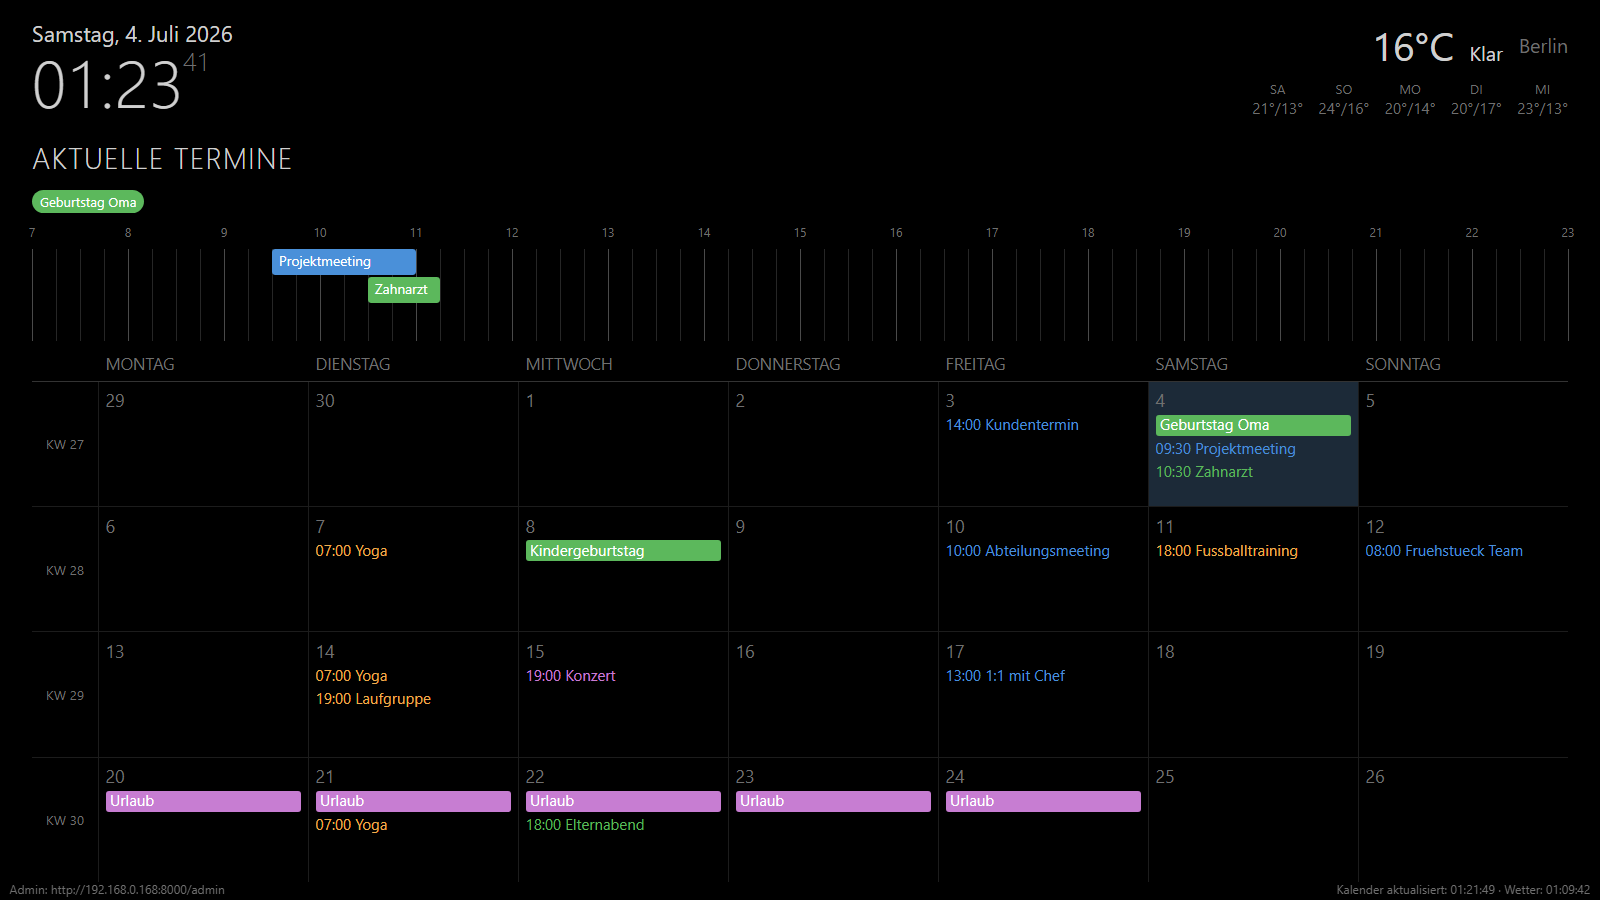
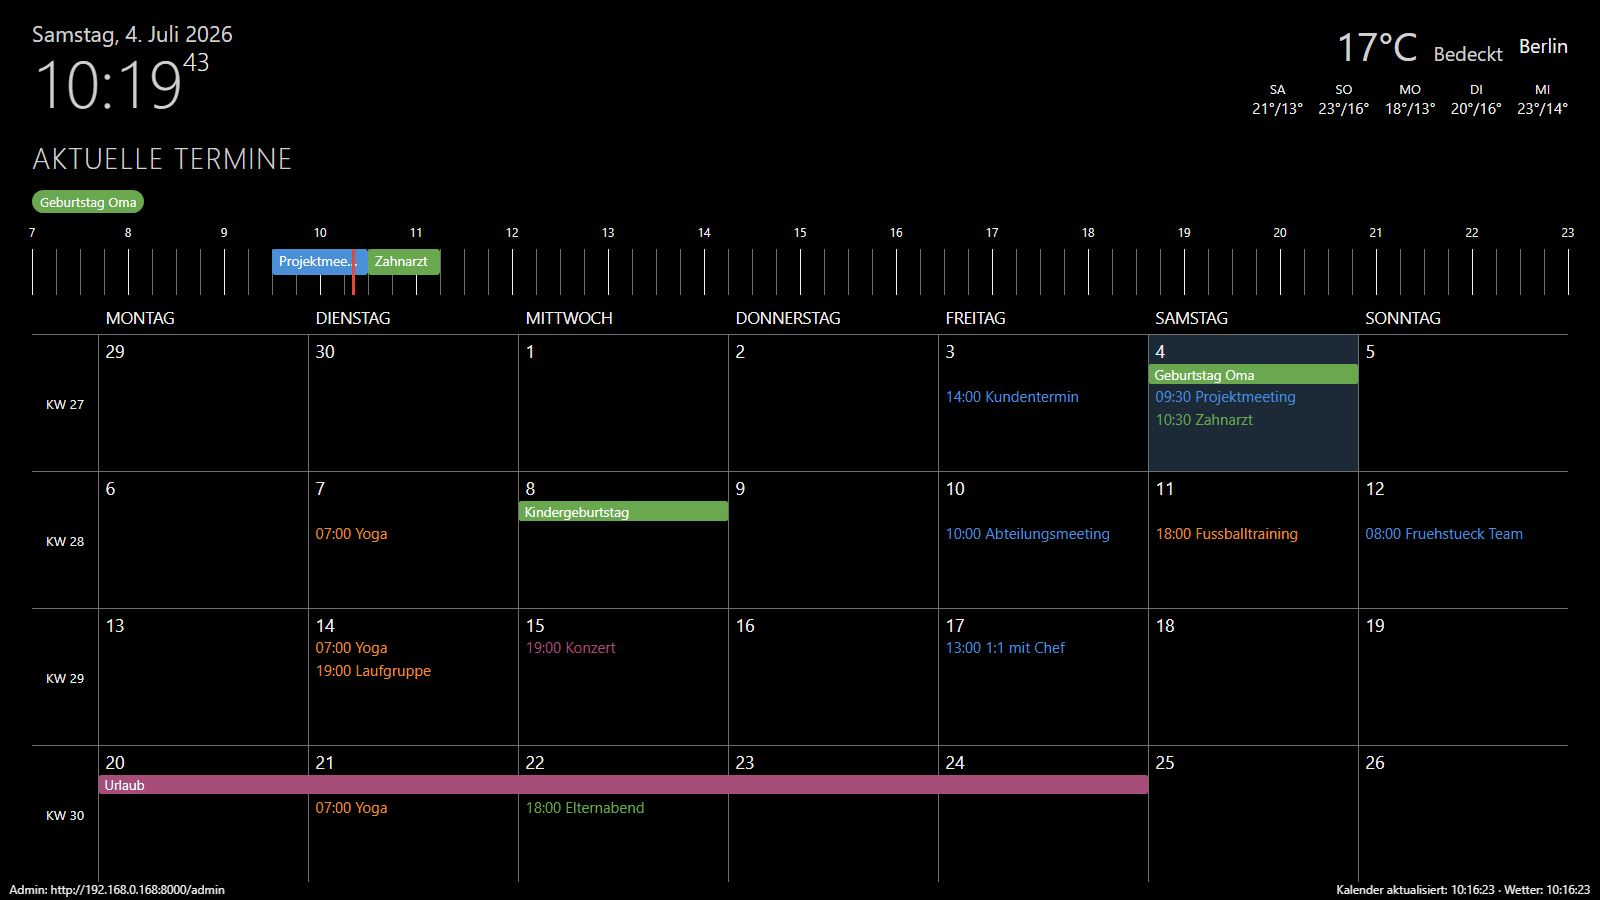
README: neue Features dokumentiert, Screenshot aktualisiert
Roter Jetzt-Cursor in der Zeitleiste, durchgehender Ganztages-Balken bei
mehrtaegigen Terminen, Auto-Scroll bei zu vielen Terminen pro Tag,
Admin-URL ein-/ausblendbar, versteckter Mauscursor und schnellerer
Retry beim Kalender-/Wetter-Refresh in die Feature-Liste aufgenommen.
Screenshot zeigt jetzt die aktuelle (hellere) Optik mit den neuen Elementen.

diff --git a/README.md b/README.md
@@ -9,11 +9,12 @@ Eigenes Dashboard für einen Raspberry Pi mit angeschlossenem Bildschirm - gedac
 ## Features
 
 - **Kalender**: mehrere iCal-Quellen gleichzeitig, jede mit eigener Farbe, inkl. wiederkehrender Termine, mit Start- **und** Endzeit.
-- **Zeitleiste** für die heutigen Termine (7-23 Uhr, erweitert sich automatisch bei früheren/späteren Terminen), überlappende Termine werden nebeneinander dargestellt.
-- **Monatskalender** mit konfigurierbarer Wochenanzahl und optionaler Kalenderwochen-Spalte.
+- **Zeitleiste** für die heutigen Termine (7-23 Uhr, erweitert sich automatisch bei früheren/späteren Terminen), überlappende Termine werden nebeneinander dargestellt. Ein roter, sekündlich mitlaufender Strich zeigt die aktuelle Uhrzeit direkt auf der Zeitleiste.
+- **Monatskalender** mit konfigurierbarer Wochenanzahl und optionaler Kalenderwochen-Spalte. Ganztägige (auch mehrtägige) Termine erscheinen als durchgehender Balken oben in den Tageskacheln; Tage mit mehr Terminen, als in eine Kachel passen, scrollen den Rest automatisch durch.
 - **Wetter** über [Open-Meteo](https://open-meteo.com/) (kostenlos, kein API-Key nötig), inkl. Ortssuche im Admin-GUI.
-- **Admin-GUI** (`/admin`) - von jedem Gerät im selben Netzwerk erreichbar, kein Login nötig.
+- **Admin-GUI** (`/admin`) - von jedem Gerät im selben Netzwerk erreichbar, kein Login nötig. Die Admin-URL unten links im Kiosk lässt sich in den Anzeige-Einstellungen ein-/ausblenden.
 - **Update-Panel** (`/admin/update`) - zeigt, ob eine neuere Version verfügbar ist, und installiert sie per Klick.
+- **Kiosk-Feinschliff**: Mauscursor bleibt dauerhaft ausgeblendet (labwc `HideCursor`, automatisch per `install.sh` eingerichtet), Kalender-/Wetter-Aktualisierung startet sofort beim Systemstart und versucht es bei einem Fehlschlag (z.B. Netzwerk noch nicht bereit) nach 60 Sekunden erneut statt das ganze Intervall abzuwarten.
 
 ## Voraussetzungen
 